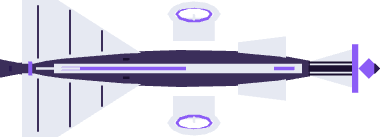
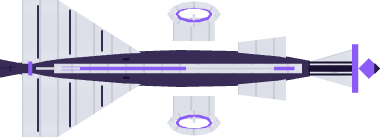
feat(hull-maps): rebake the Responsory's albedo on the Knights' sheet and record gate 6 (#1109)
The albedo takes the wing butts at 4 px/m; the height and emissive maps
are unchanged. Four staged Responsories on the GTX 1070 read the same
calls and triangles, one texture more, and queued GPU time within
0.02 ms a camera (gate6.json). The conn view and lit-table pairs show
the panels.

Claude-Session: https://claude.ai/code/session_01XPuBbCy6Aq43wXePNdg61H

diff --git a/docs/art-direction.md b/docs/art-direction.md
@@ -628,13 +628,20 @@ lamps are never tagged. The Responsory is the first hull, the owner's choice: it
 **584** faces flat and **572** unrolled — 856 on the one-strake band, 120 on two, 40 on four,
 140 on eight — split **138** vertices and tag two materials, `shadow_indigo` and `pale_alloy`.
 `responsory-hadron.glb` goes from **104,480 to 110,156 bytes** (gzip 12,606 to 14,950) with
-its 48 parts, 1,156 triangles and outline unchanged; no triangle moved, so a sprite rebake has
-nothing to change in the height or emissive map, and the bake is not run here. The sheet is
+its 48 parts, 1,156 triangles and outline unchanged; no triangle moved, so the sprite rebake
+changes the albedo alone (`responsory-albedo.png`, 7,191 to 19,070 bytes, the wings' butts drawn
+at 4 px/m) and the height and emissive maps are byte for byte what they were, the glow on its
+gate-3 target of 3.10. The sheet is
 **1,653 bytes**, flat fields compressing where plate and chitin do not, at a mean linear
 luminance of **0.899**: under the Directorate's 0.938, over the Consortium's 0.857, so a
 polished navy is not darker than riveted plate on the register the conn view puts it on. On
 the GPU it is the same 512² RGBA8 upload with mipmaps, **1.33 MiB** once per navy present, no
-draw or triangle more. Two things are the layout's and not this sheet's, shared by every navy
+draw or triangle more. With four staged Responsories on Ventfront, read on the GTX 1070 at
+`capture.mjs`' four cameras, calls and triangles are the same before and after (49–50 and
+143,656–143,756), textures go from 20 to 21, and gate 6's queued GPU time reads 0.70 to 0.82 ms
+at pixel ratio 1 and 1.29 to 1.68 ms at 1.5, within 0.02 ms a camera either side
+([readings](screenshots/issue-1109/gate6.json)). [The conn view](screenshots/issue-1109/conn-view.png)
+and [the lit table](screenshots/issue-1109/lit-table.png) show the panels. Two things are the layout's and not this sheet's, shared by every navy
 on one: a round part at an odd plate count — the emitter barrel, 4.8 m round, at one — carries
 its butt on the starboard side alone, and a round part's end caps are laid from world position
 rather than the part's centre (`layoutMesh`), so a cap off the origin samples a band it was
@@ -657,7 +664,7 @@ view's frame.
 | 3 | Bevel coverage and baked AO ([#1002](https://github.com/gunnargehtab/Echoes-of-the-Abyss/issues/1002)) | Both landed ("Bevels and baked occlusion — SPEC" above). Coverage measured: 30 of 190 extruded plates are bevelled, and plates are 3 % of 7,480 parts, so no primitive was added. The Knights' Bastion carries the first baked occlusion map, on its own UV set, read by the conn view alone, its silhouette unchanged; the next model is a call per model |
 | 4 | Vignette, chromatic split, camera sway ([#1003](https://github.com/gunnargehtab/Echoes-of-the-Abyss/issues/1003)) | All three are built ([Atmosphere rides on top](#atmosphere-rides-on-top-in-screen-space)). The vignette and the sway use no pass. The split is a colour copy and one full-screen draw after the halo, and gate 6 allocates both. Existing shader-driven kelp sway and water fog are different effects; do not duplicate them. Respect gate 8 and reduced motion |
 | 5 | GLB gzip ([#1004](https://github.com/gunnargehtab/Echoes-of-the-Abyss/issues/1004)) | Built. The nginx image's `mime.types` names no `glb`, so `packages/frontend/nginx.conf` names the type in the models' own location and gzips them at level 6. Delivery cost, not frame quality |
-| 6 | UV layout and trim sheets ([#1005](https://github.com/gunnargehtab/Echoes-of-the-Abyss/issues/1005)) | Landed on one hull ("UV layout and trim sheets — SPEC" above). 6,863 of 7,025 primitives carry UV0 and 13 carry `uvAlike`'s zeros, but attribute presence is not a layout: the Bulwark's 162 parts are laid out in metres by its script, and four materials are tagged for the Consortium's sheet, one PNG a navy attached at load, luminance only, hue still the palette's. Sorrowgate's triplanar surfaces are kept under it; the next hull is a call per hull |
+| 6 | UV layout and trim sheets ([#1005](https://github.com/gunnargehtab/Echoes-of-the-Abyss/issues/1005)) | Landed on one hull a navy for three navies: the Consortium's Bulwark, the Directorate's Light Scout ([#1108](https://github.com/gunnargehtab/Echoes-of-the-Abyss/issues/1108)) and the Knights' Responsory ([#1109](https://github.com/gunnargehtab/Echoes-of-the-Abyss/issues/1109)), each on its navy's sheet ("UV layout and trim sheets — SPEC" above); the Commune has none. At #1005, 6,863 of 7,025 primitives carry UV0 and 13 carry `uvAlike`'s zeros, but attribute presence is not a layout: the Bulwark's 162 parts are laid out in metres by its script, and four materials are tagged for the Consortium's sheet, one PNG a navy attached at load, luminance only, hue still the palette's. Sorrowgate's triplanar surfaces are kept under it; the next hull is a call per hull |
 | 7 | Shallow caustics ([#1006](https://github.com/gunnargehtab/Echoes-of-the-Abyss/issues/1006)) | Decided: none. The sunlit layer is the milky Lid, which scatters rather than focuses, and the water ramp already carries what light reaches the Shelf ("Shallow caustics — SPEC" above). Nothing to build |
 | 8 | WebGPU/TSL ([#1007](https://github.com/gunnargehtab/Echoes-of-the-Abyss/issues/1007)) | Defer migration until a separate feasibility decision. Water, survey, surface and sway shader patches depend on the current WebGL pipeline; this is not a renderer-constructor swap. The feasibility note is written ([webgpu-feasibility.md](webgpu-feasibility.md)): every patch has a TSL equivalent, but under r169 frame-wide tone mapping holds gate 3 only if every material carries its own curve, one-pixel points cost gate 6 triangles, and the halo's depth copy costs gate 6 a call or a target |
 
